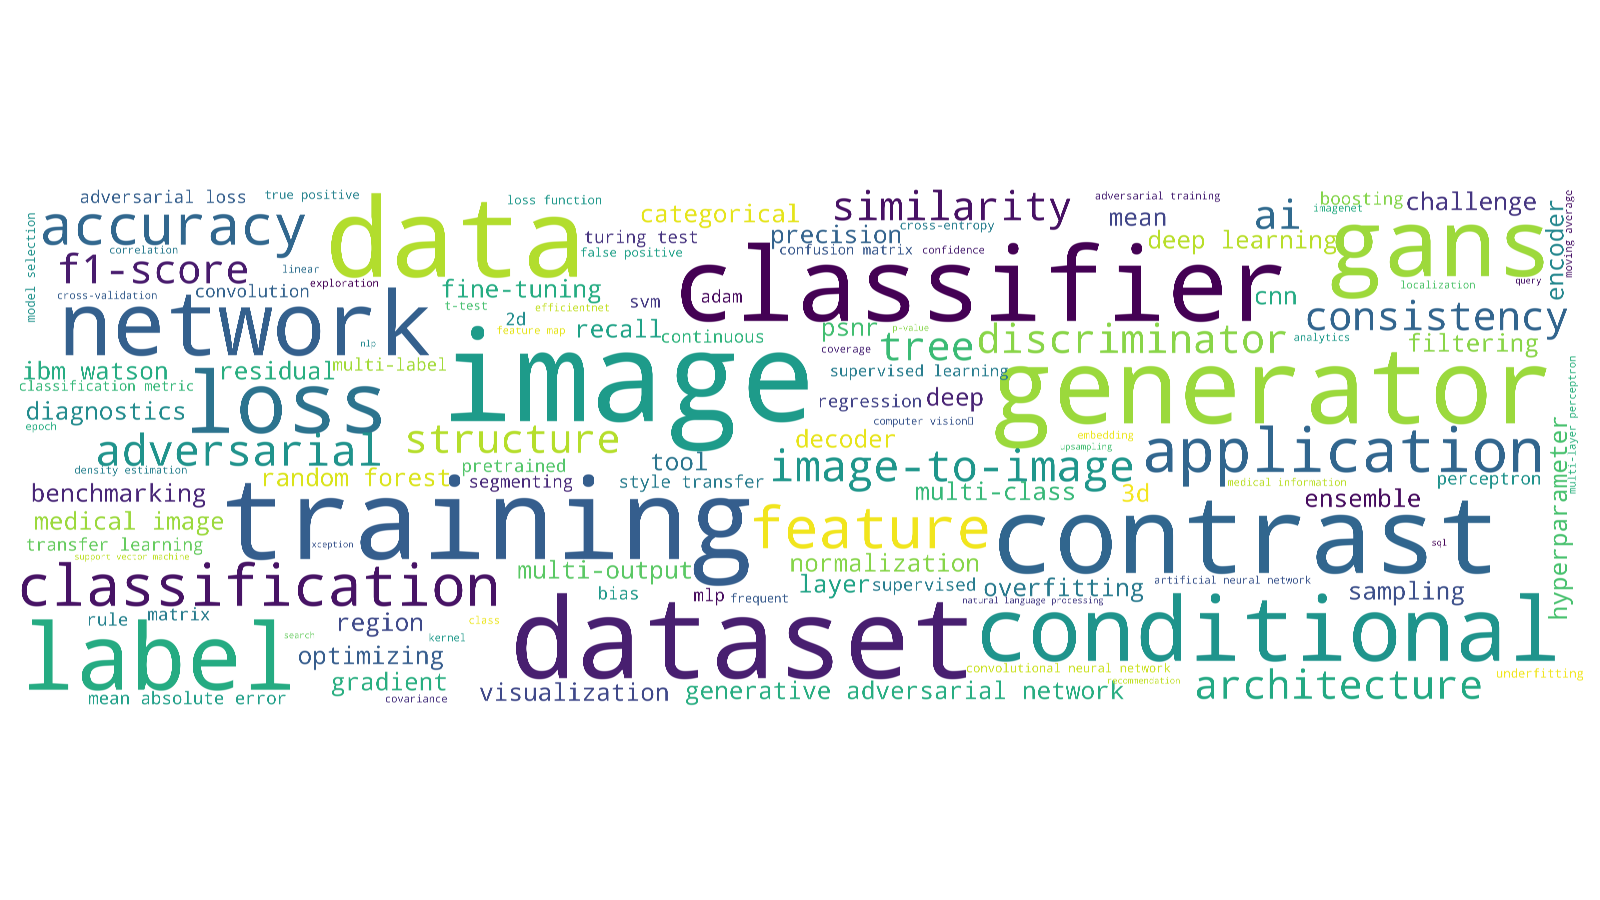
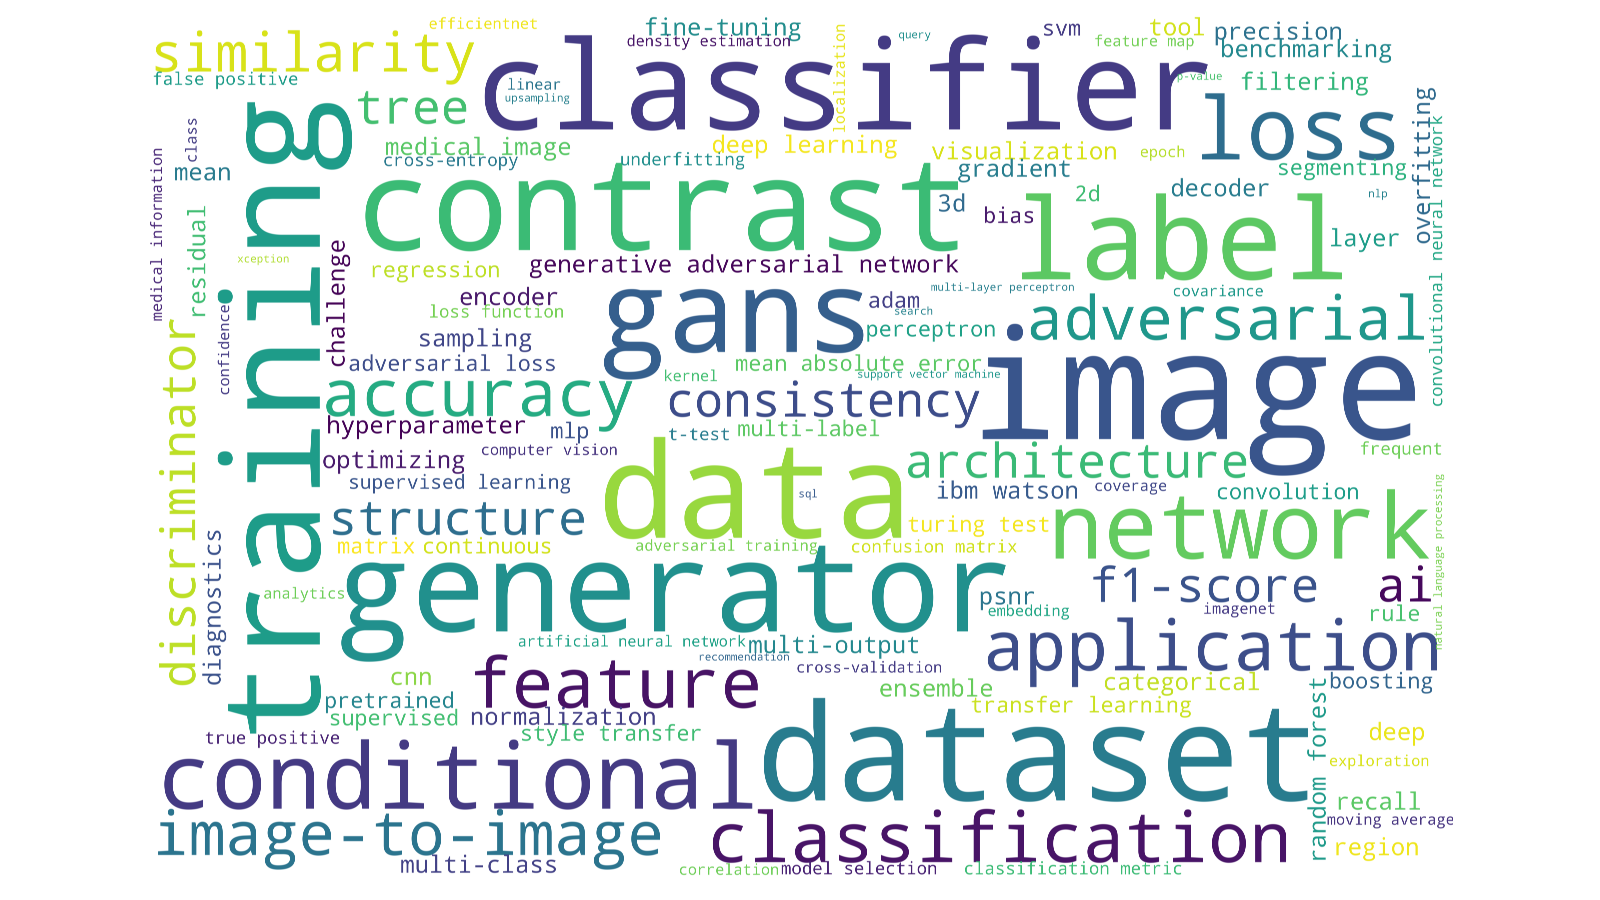
Update comments and default command-line parameters.

Changed region(s): [[0.0, 0.0, 1.0, 0.9956]]

diff --git a/machine_learning_research_topic_extraction.py b/machine_learning_research_topic_extraction.py
@@ -227,15 +227,15 @@ if __name__ == '__main__':
     add_arg('--stem', type=str2bool, default=True, help='Apply word stemming to text and index terms. Default: True.')
     add_arg('--pdfs', nargs="+", type=str, help='List of PDF files (or single folder) as input for word cloud generation. If folder is specified, use all PDF files in this folder.')
     add_arg('--figsize', type=tuple, default=(16, 9), help='Figure/Plot size. Controls resolution. Default: (16, 9).')
-    add_arg('--relative_scaling', type=float, default=.2, help='Importance of relative word frequencies for font-size in word cloud (between 0 and 1). Default: 0.5.')
-    add_arg('--max_font_size', type=int, default=72, help='Maximum font size in word cloud plot. Default: 100.')
-    add_arg('--scale', type=int, default=60, help='Controls coarseness of fit for the words. Default: 20.')
-    add_arg('--height', type=int, default=300, help='Word cloud canvas height. Default: 400.')
-    add_arg('--width', type=int, default=900, help='Word cloud canvas width. Default: 600.')
+    add_arg('--relative_scaling', type=float, default=.2, help='Importance of relative word frequencies for font-size in word cloud (between 0 and 1). Default: 0.2.')
+    add_arg('--max_font_size', type=int, default=70, help='Maximum font size in word cloud plot. Default: 70.')
+    add_arg('--scale', type=int, default=50, help='Controls coarseness of fit for the words. Default: 50.')
+    add_arg('--height', type=int, default=400, help='Word cloud canvas height. Default: 400.')
+    add_arg('--width', type=int, default=600, help='Word cloud canvas width. Default: 600.')
 
     args = parser.parse_args()
 
-    # Create joined text file from specified PDF files.
+    # Concatenate text from specified PDF files.
     if len(args.pdfs) == 1 and os.path.isdir(args.pdfs[0]):
         filepaths_pdf = glob.glob(os.path.join(args.pdfs[0], '*.pdf'))
     else:
@@ -245,7 +245,7 @@ if __name__ == '__main__':
 
     print(f'Reading {len(filepaths_pdf)} PDF files...')
     texts = [get_text_from_pdf(fp) for fp in filepaths_pdf]
-    joined_text = ' '.join(texts)
+    text_concat = ' '.join(texts)
 
     # Read index term file.
     with open(args.filepath_index, 'r', encoding='utf-8') as infile:
@@ -254,7 +254,7 @@ if __name__ == '__main__':
     # Create word cloud and save to file. Default word cloud parameters are set
     # heuristically for pleasant visualization.
     print('Creating word cloud...')
-    dct_out = create_word_cloud(joined_text, index_terms,
+    dct_out = create_word_cloud(text_concat, index_terms,
                                 stem=args.stem,
                                 figsize=args.figsize,
                                 relative_scaling=args.relative_scaling,
